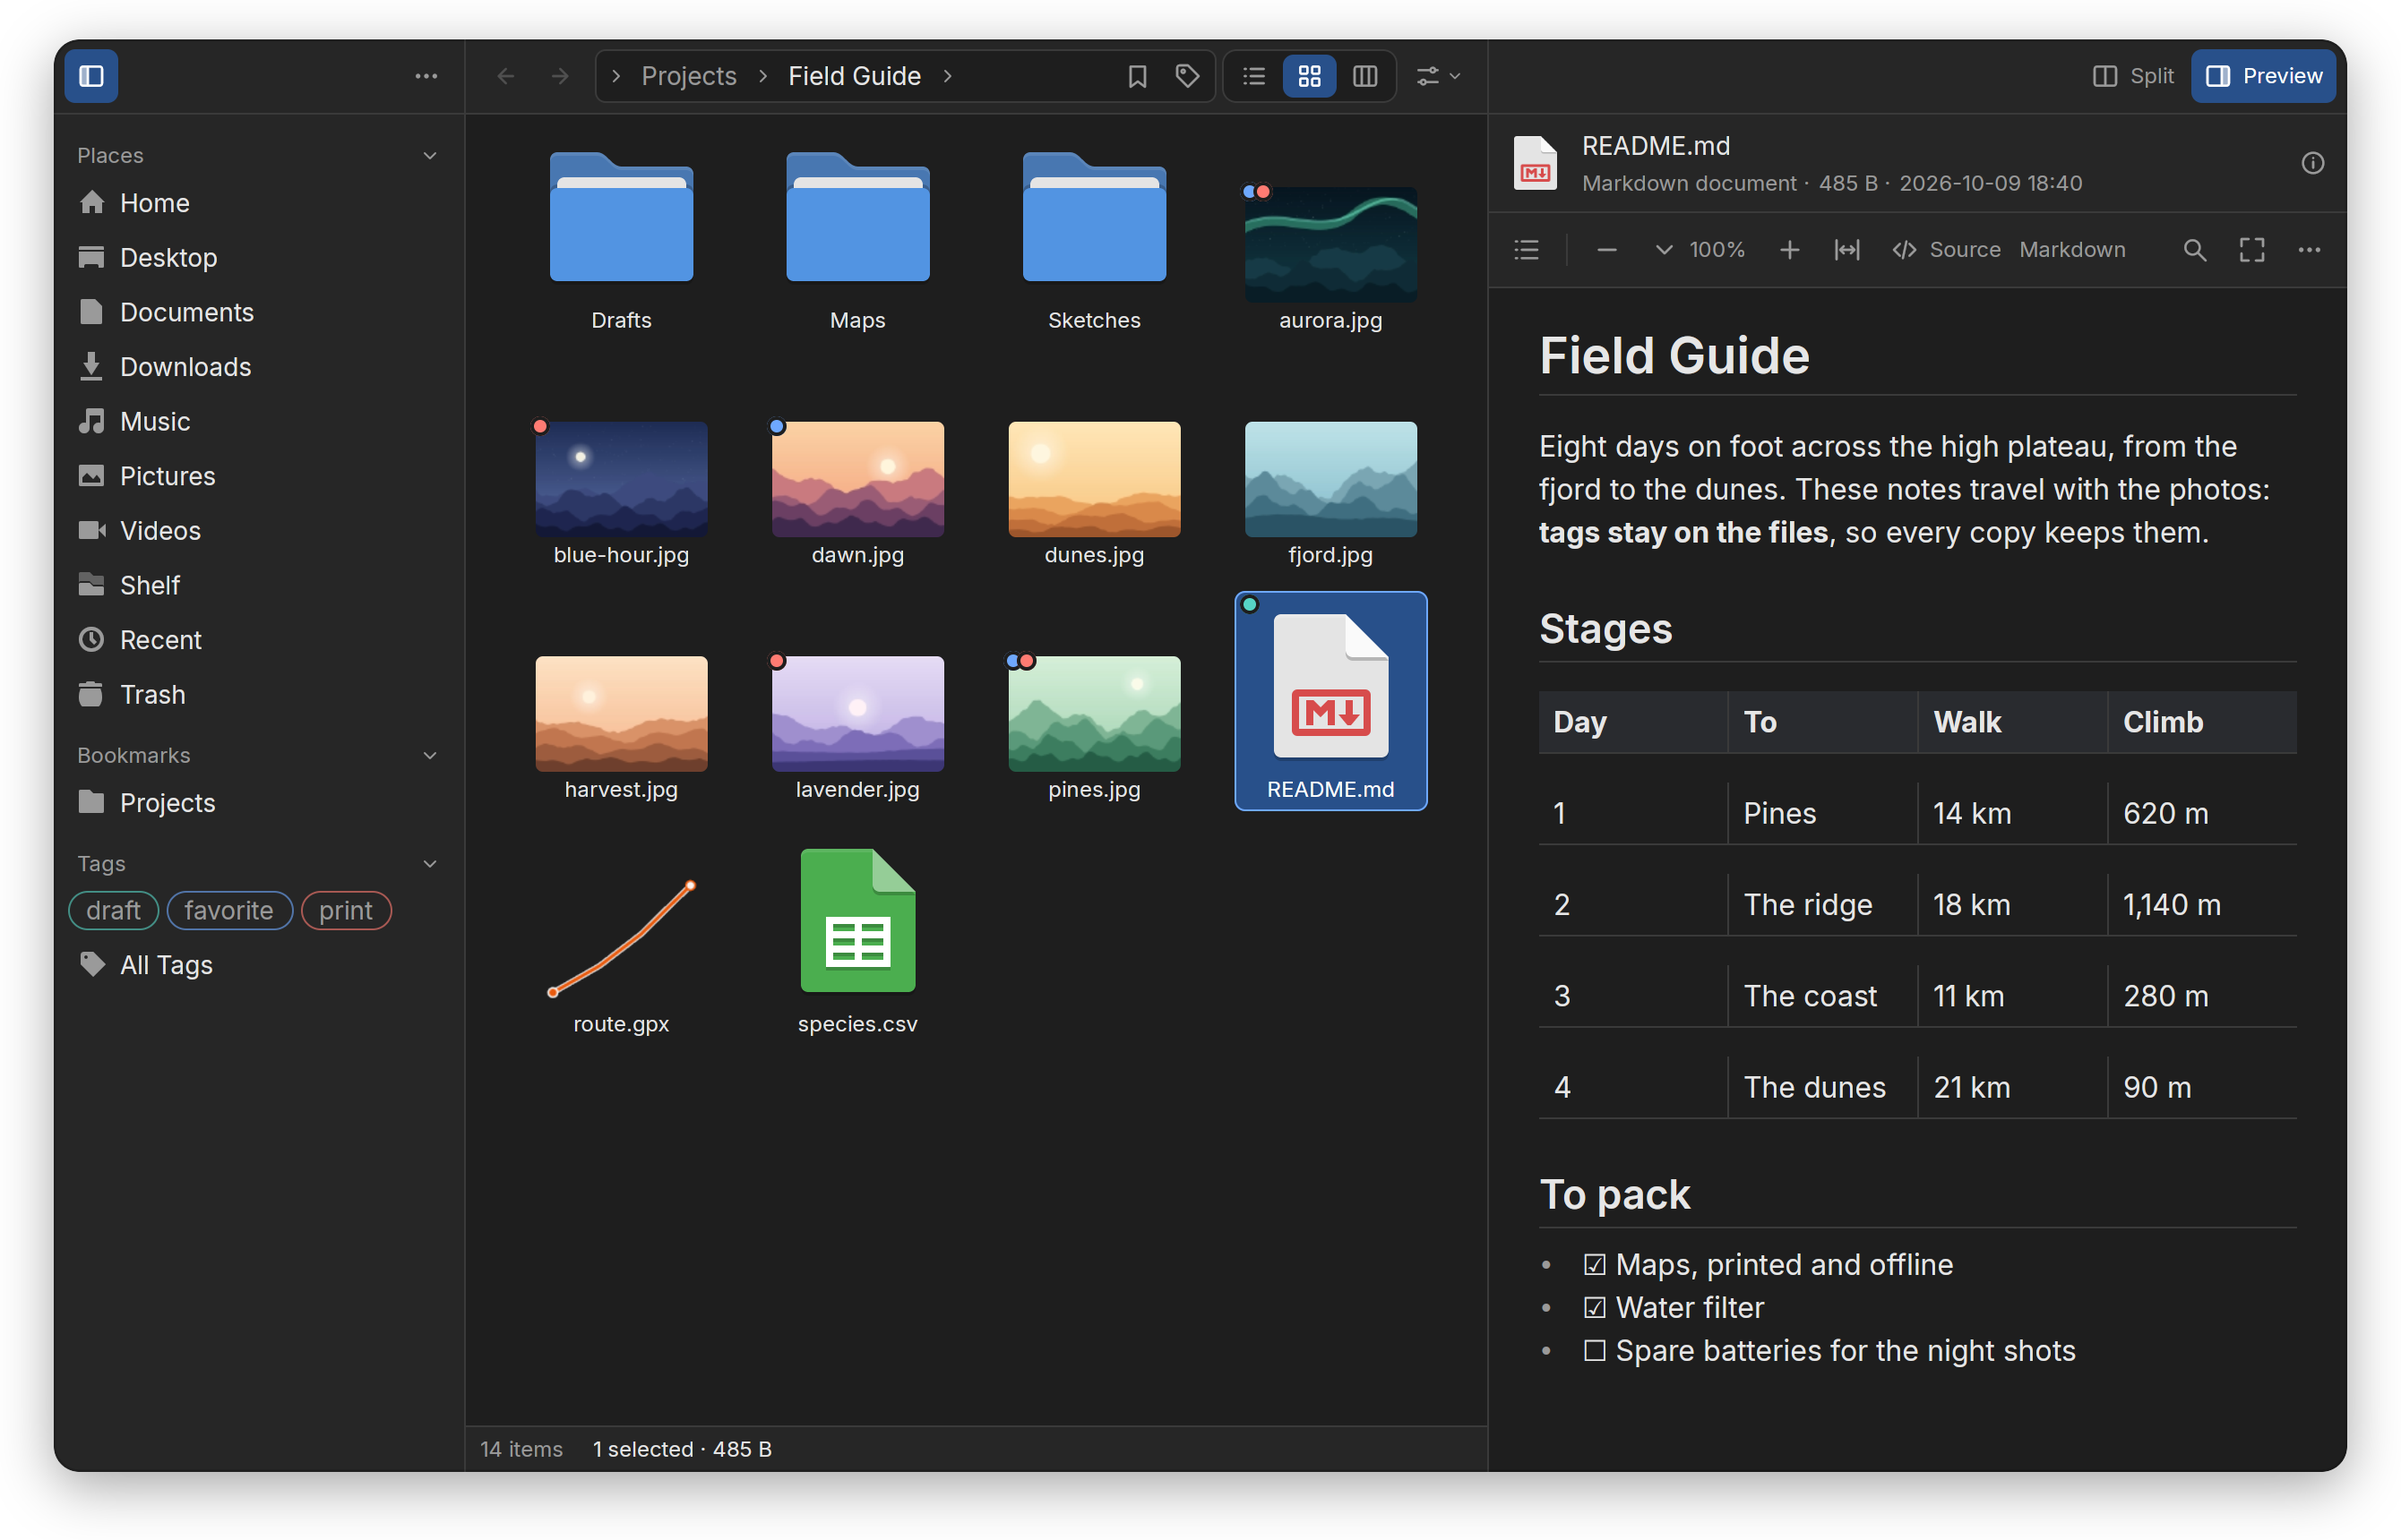
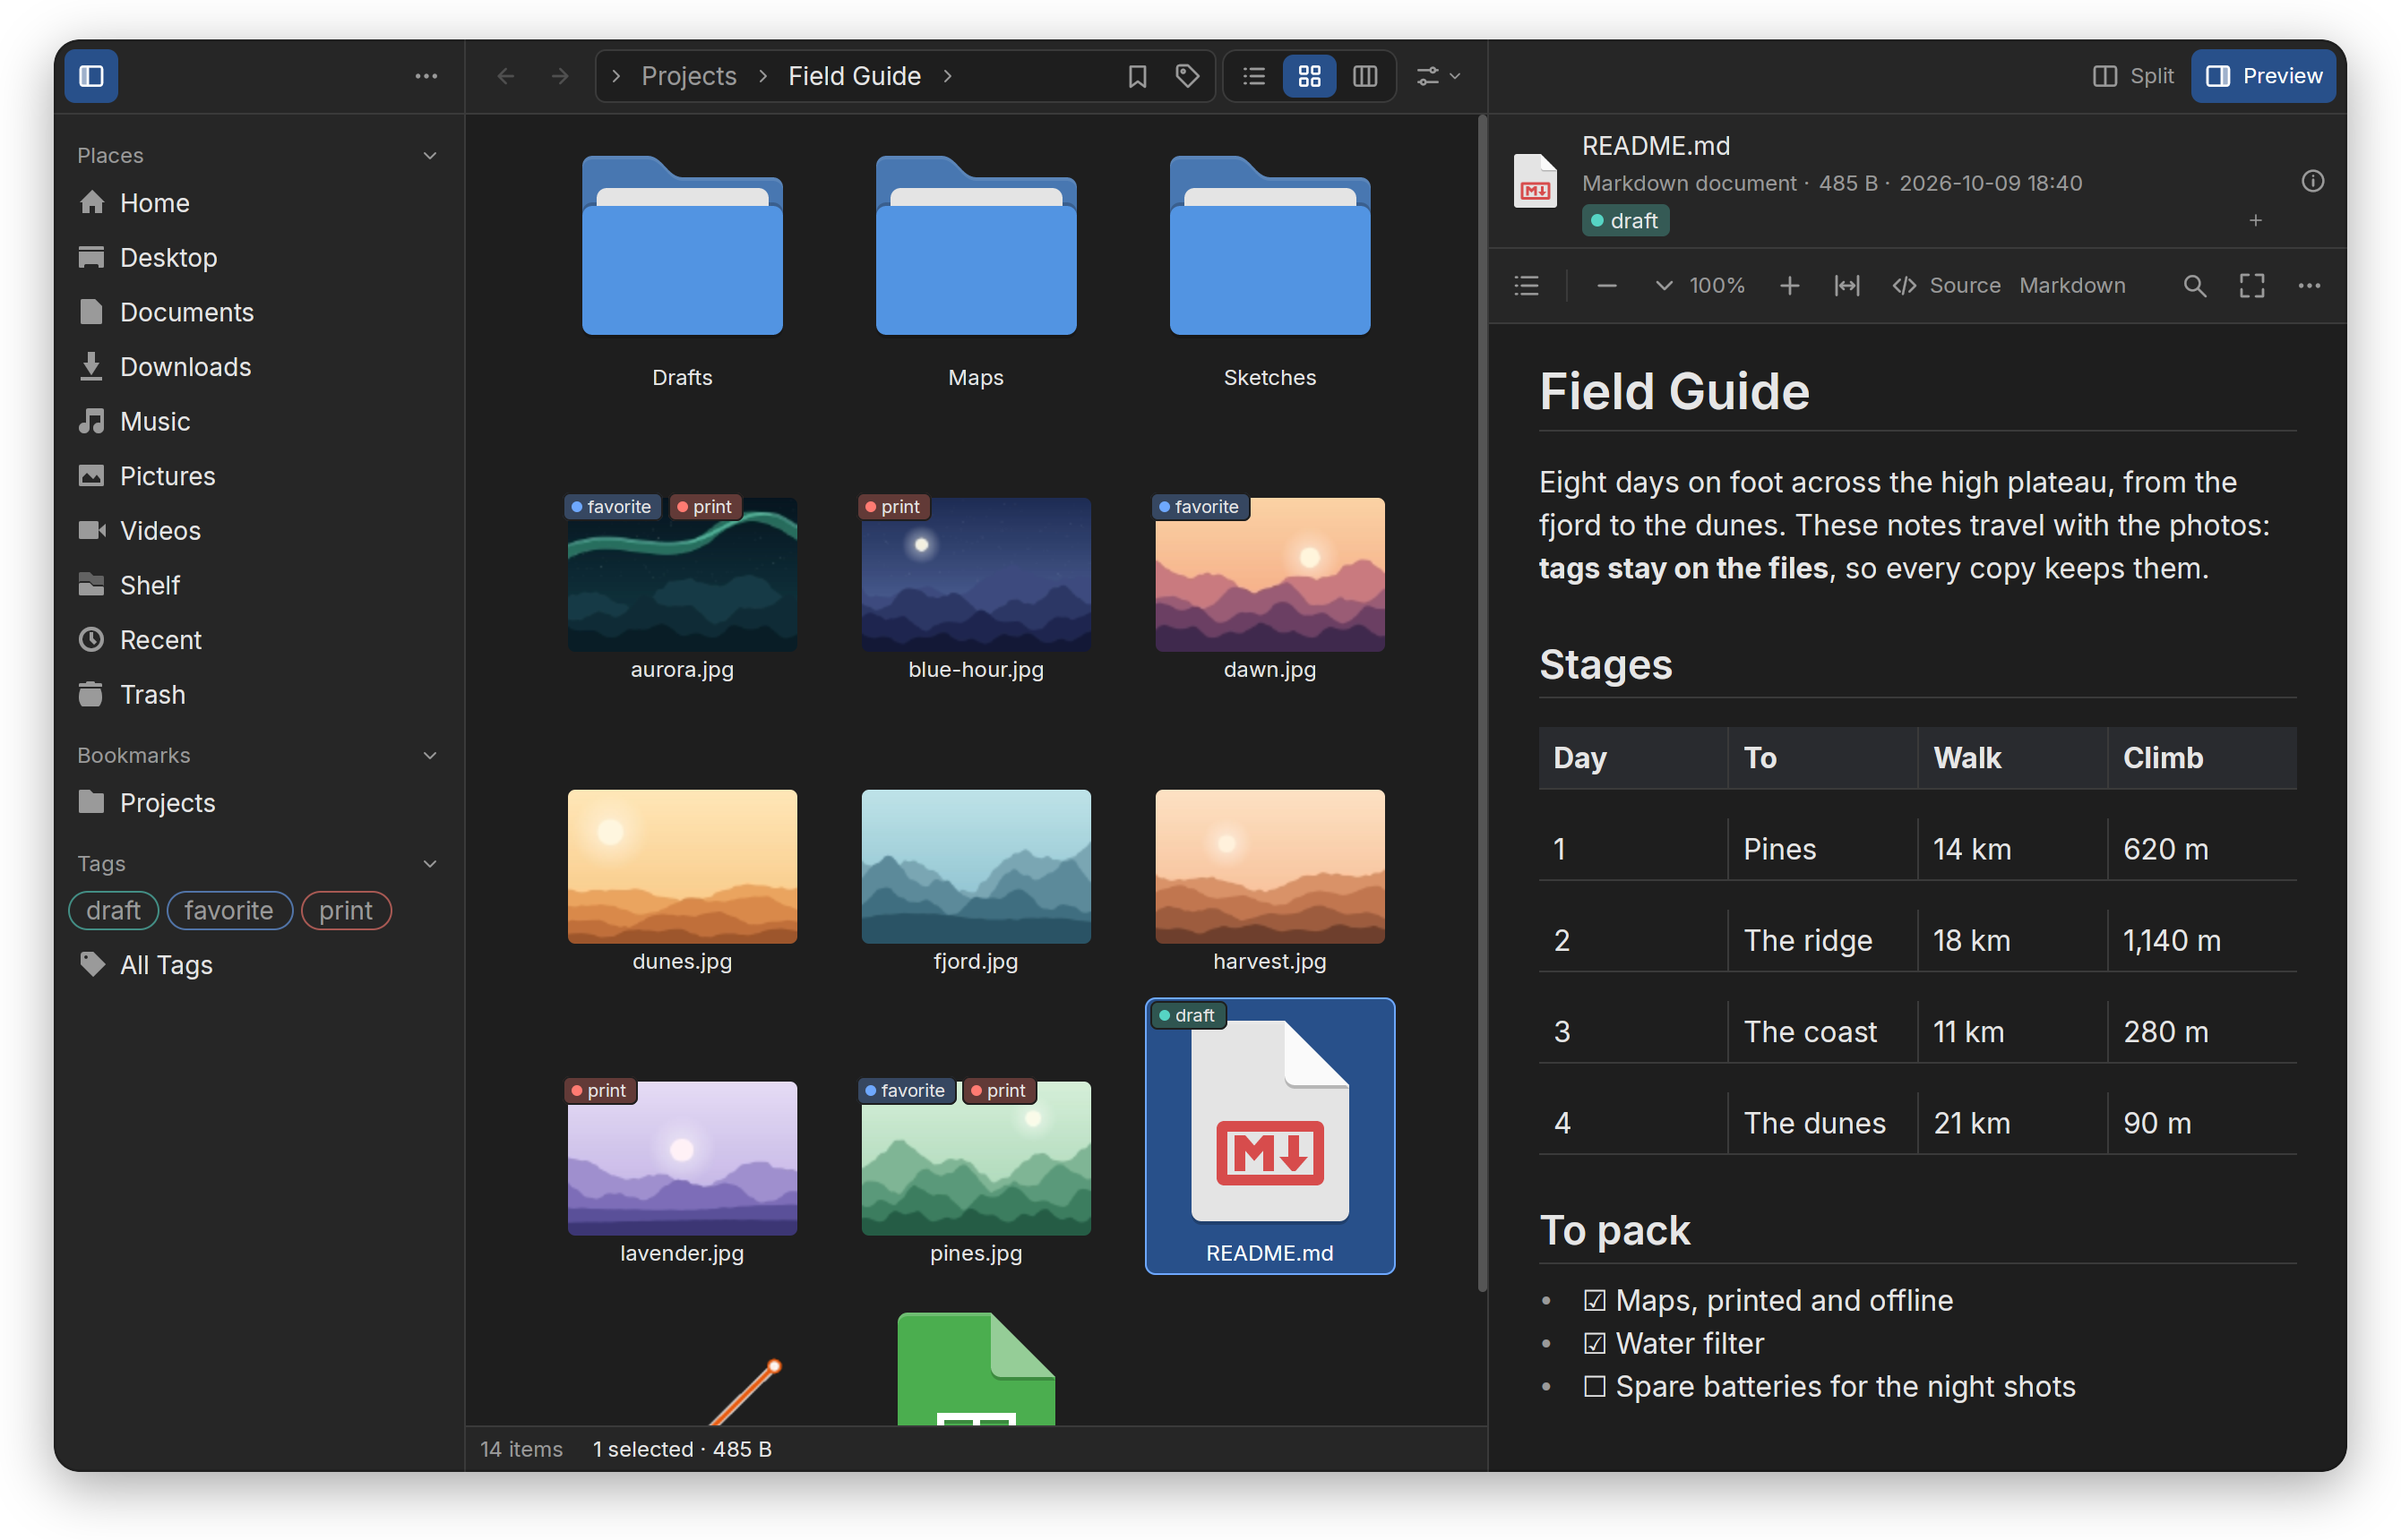
Make the README's screenshots again, tags named on the tiles
At the grid's default zoom (128 px), where a tile's tags say their
names; at 96 they are dots. The preview's header now says the README's
tag. The network section is hidden as the drives are: mountinfo lists
the machine's own mounts there whatever HOME says.

diff --git a/tools/screenshots/readme.py b/tools/screenshots/readme.py
@@ -15,8 +15,8 @@ shadow, on transparency) and written to docs/images/screenshot-<theme>.png.
 
 Nothing personal can reach the pictures: HOME, the XDG folders and the
 runtime folder are under ~/.cache/skwir-tests/screenshots-*, and the
-sidebar's drives are hidden, since mountinfo lists the machine's real ones
-whatever HOME says. A file is selected before the capture, so the preview
+sidebar's drives and network mounts are hidden, since mountinfo lists the
+machine's real ones whatever HOME says. A file is selected before the capture, so the preview
 panel shows it rather than Properties (which says where the folder is
 and who owns it). Look at the result before committing it all the same.
 """
@@ -273,9 +273,10 @@ class Window:
         # The window as it was left is state, not a setting (ADR-056).
         (self.root / "state" / "skwir").mkdir(parents=True, exist_ok=True)
         (self.root / "state" / "skwir" / "state.toml").write_text(
-            '[ui.session]\nview = "grid"\nzoom = 96\npreview = true\n'
+            '[ui.session]\nview = "grid"\nzoom = 128\npreview = true\n'
             "preview_width = 480.0\nsidebar_width = 230.0\n\n"
-            '[ui.session.sidebar_sections]\nhidden = ["devices"]\n'
+            # The machine's drives and network mounts are its own.
+            '[ui.session.sidebar_sections]\nhidden = ["devices", "network"]\n'
         )
         dirs = "".join(f"  <dir>{d}</dir>\n" for d in self.tools.fonts)
         (self.root / "fonts.conf").write_text(
